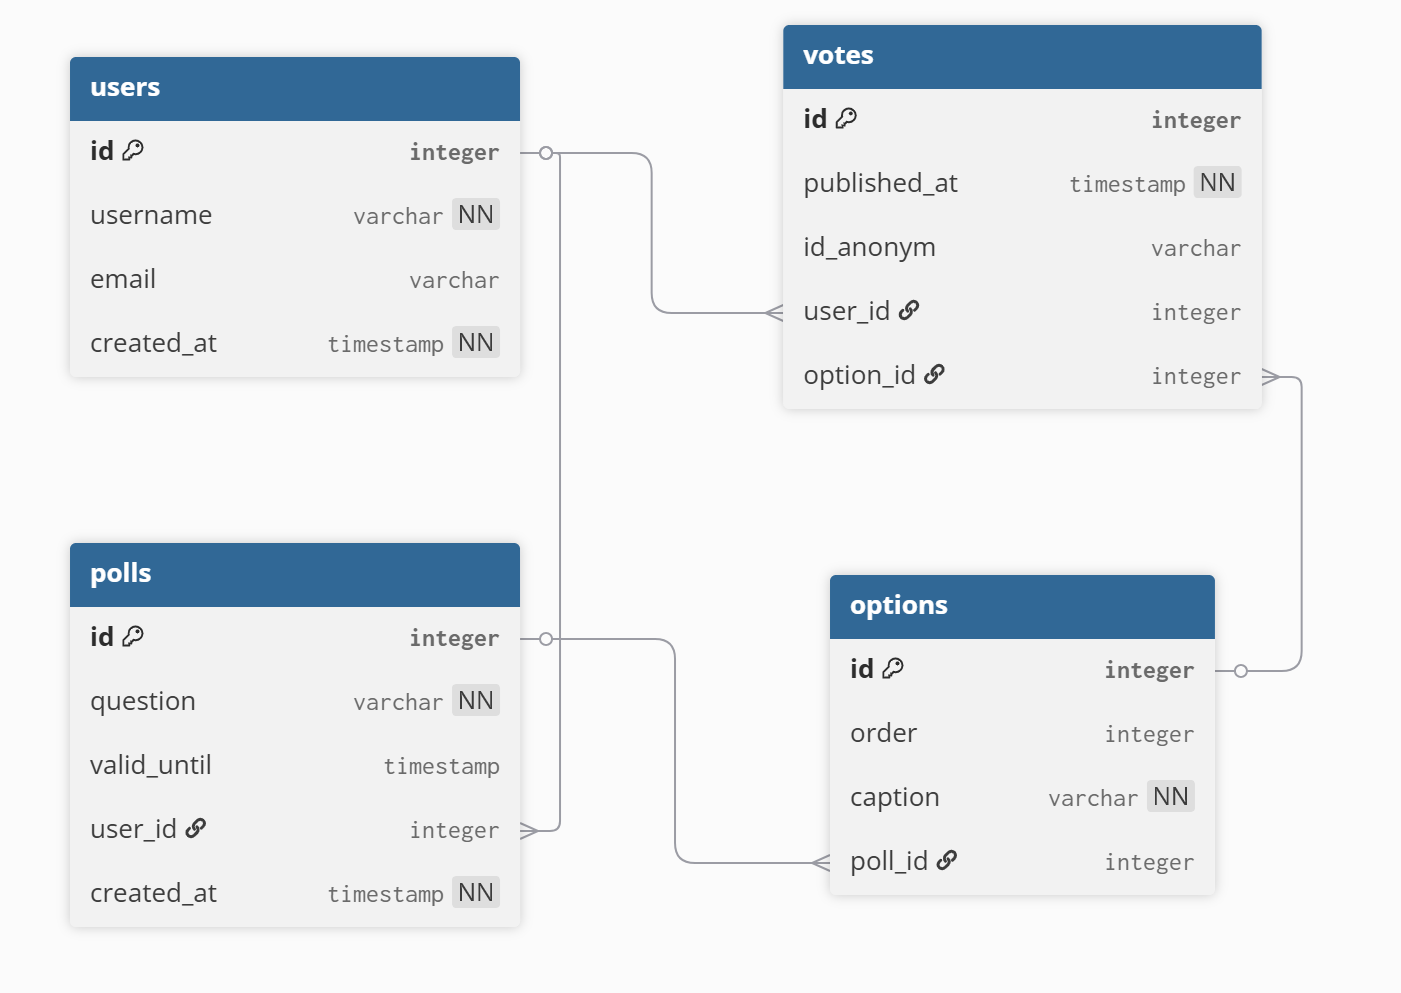
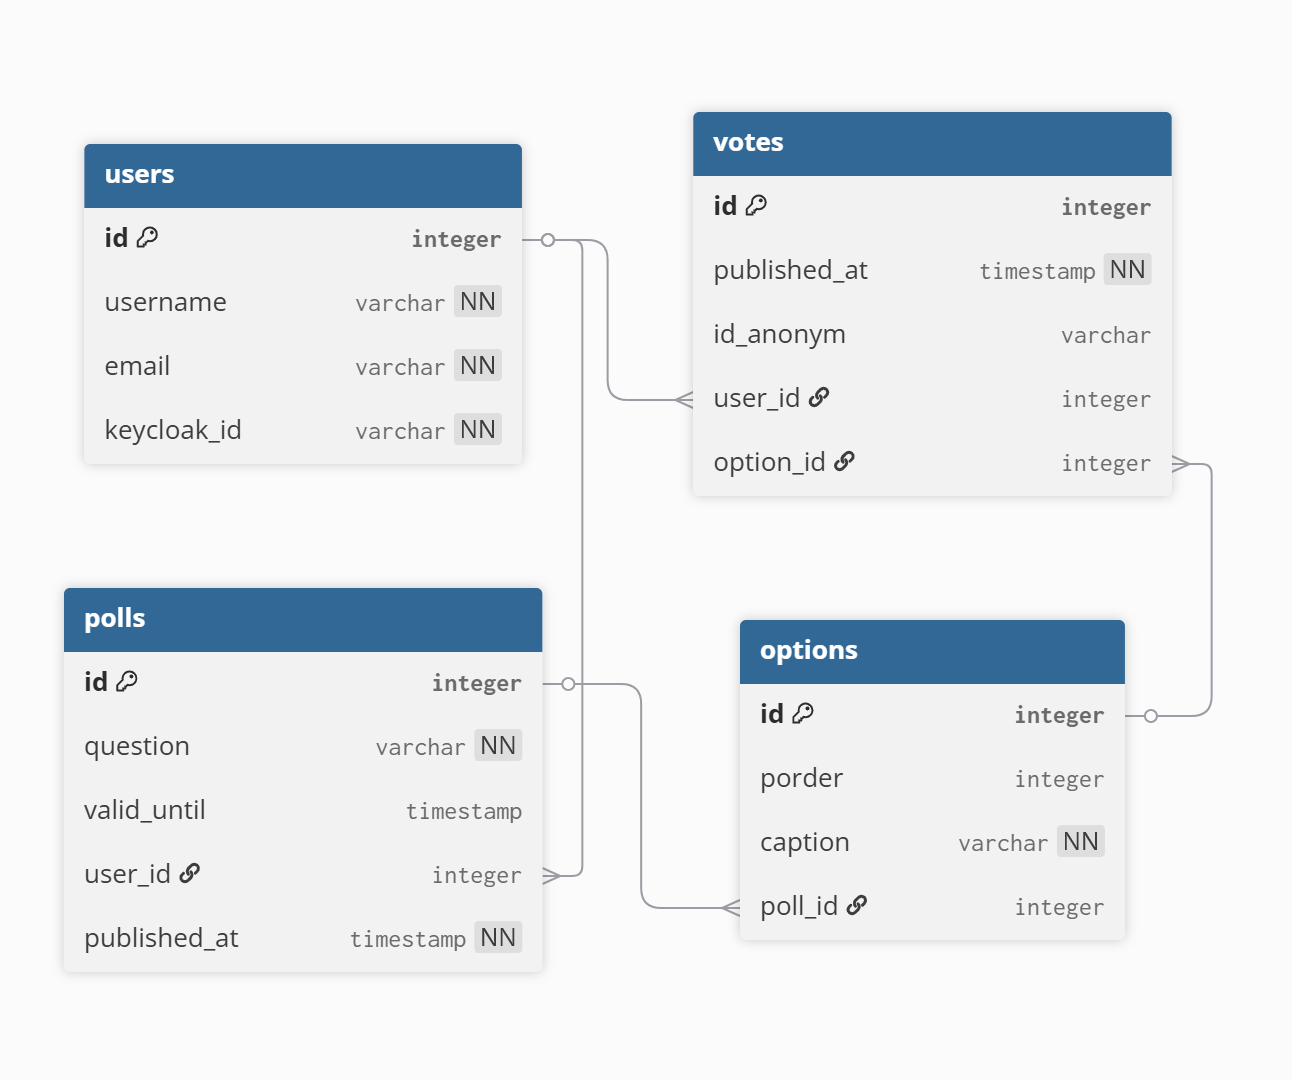
lubos: Correction of DB scheme

diff --git a/SwDesign/Database_scheme.md b/SwDesign/Database_scheme.md
@@ -4,8 +4,8 @@
 Table users {
 id integer [pk]
 username varchar [not null, unique]
-email varchar
-created_at timestamp [not null]
+email varchar [not null, unique]
+keycloak_id varchar [not null, unique]
 }
 
 Table polls {
@@ -13,12 +13,12 @@ id integer [pk]
 question varchar [not null]
 valid_until timestamp
 user_id integer [ref: > users.id]
-created_at timestamp [not null]
+published_at timestamp [not null]
 }
 
 Table options {
 id integer [pk]
-order integer
+porder integer
 caption varchar [not null]
 poll_id integer [ref: > polls.id, null]
 }
@@ -26,7 +26,7 @@ poll_id integer [ref: > polls.id, null]
 Table votes {
 id integer [pk]
 published_at timestamp [not null]
-id_anonym varchar [null]
+id_anonym varchar [null, unique]
 user_id  integer [ref: > users.id, null]
 option_id integer [ref: > options.id, null]
 }
